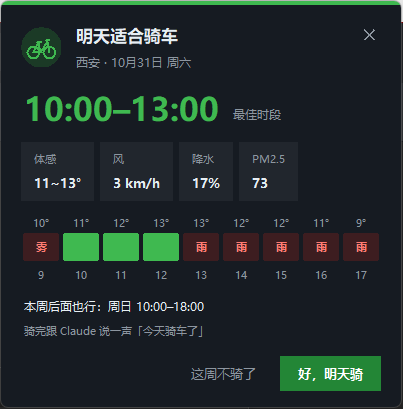
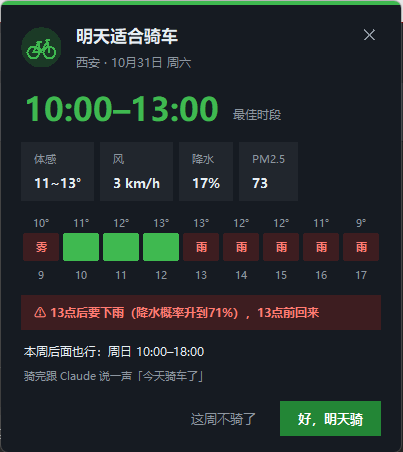
好时段结束后 3 小时内有雨就在卡片上红字提醒

diff --git a/scripts/ride_check.py b/scripts/ride_check.py
@@ -159,10 +159,17 @@ def judge_day(day, hours, cfg):
         return {"ok": False, "reason": "、".join(reasons) or "好天气时段太短", "summary": summary}
     w = seg[best[0]:best[1]]
     wpm = [x["pm"] for x in w if x["pm"] is not None]
+    # 好时段一结束就下雨的话要提醒：别骑远了回不来
+    end = w[-1]["t"] + dt.timedelta(hours=1)
+    after = [x for x in hours if end <= x["t"] < end + dt.timedelta(hours=3)]
+    wet = [x for x in after if x["pp"] > cfg["rain_prob_max"] or x["mm"] > cfg["rain_mm_max"]]
+    warn = (f"{wet[0]['t'].hour}点后要下雨（降水概率升到{max(x['pp'] for x in after)}%），"
+            f"{end.hour}点前回来") if wet else None
     return {"ok": True, "summary": summary,
             "window": f"{w[0]['t'].hour}:00–{w[-1]['t'].hour + 1}:00",
             "detail": f"体感{min(x['feel'] for x in w):.0f}~{max(x['feel'] for x in w):.0f}° "
-                      f"风{max(x['wind'] for x in w):.0f}km/h",
+                      f"风{max(x['wind'] for x in w):.0f}km/h" + (f"，⚠ {warn}" if warn else ""),
+            "warn": warn,
             # 下面这些给弹窗画图用
             "feel": f"{min(x['feel'] for x in w):.0f}~{max(x['feel'] for x in w):.0f}°",
             "wind": f"{max(x['wind'] for x in w):.0f}",
@@ -303,6 +310,7 @@ def cmd_notify(args):
         "sub": f"{cfg['city']} · {day.month}月{day.day}日 周{WEEKDAY[day.weekday()]}",
         "window": j["window"], "feel": j["feel"], "wind": j["wind"], "pp": j["pp"], "pm": j["pm"],
         "hours": j["hours"], "best": j["best"], "tail": tail, "day": day.isoformat(),
+        "warn": j["warn"],
     })
     if not preview:
         log(f"已提醒：{rel} {j['window']} {j['detail']}")

diff --git a/scripts/popup_ui.py b/scripts/popup_ui.py
@@ -162,6 +162,11 @@ def show(card):
             cv.create_text(mid, px(32), text=txt, font=F(8, "bold"), fill=tc)
         cv.create_text(mid, px(60), text=str(h["h"]), font=F(8), fill=c["muted"])
 
+    if card.get("warn"):
+        warn = tk.Frame(card_f, bg=c["bad_bg"], padx=px(10), pady=px(6))
+        warn.pack(fill="x", pady=(px(10), 0))
+        tk.Label(warn, text="⚠ " + card["warn"], font=F(9, "bold"), bg=c["bad_bg"], fg=c["bad_fg"],
+                 wraplength=W - px(20), justify="left").pack(anchor="w")
     tk.Label(card_f, text=card["tail"], font=F(9), bg=c["bg"], fg=c["fg"],
              wraplength=W, justify="left").pack(anchor="w", pady=(px(10), 0))
     tk.Label(card_f, text="骑完跟 Claude 说一声「今天骑车了」", font=F(8), bg=c["bg"],
